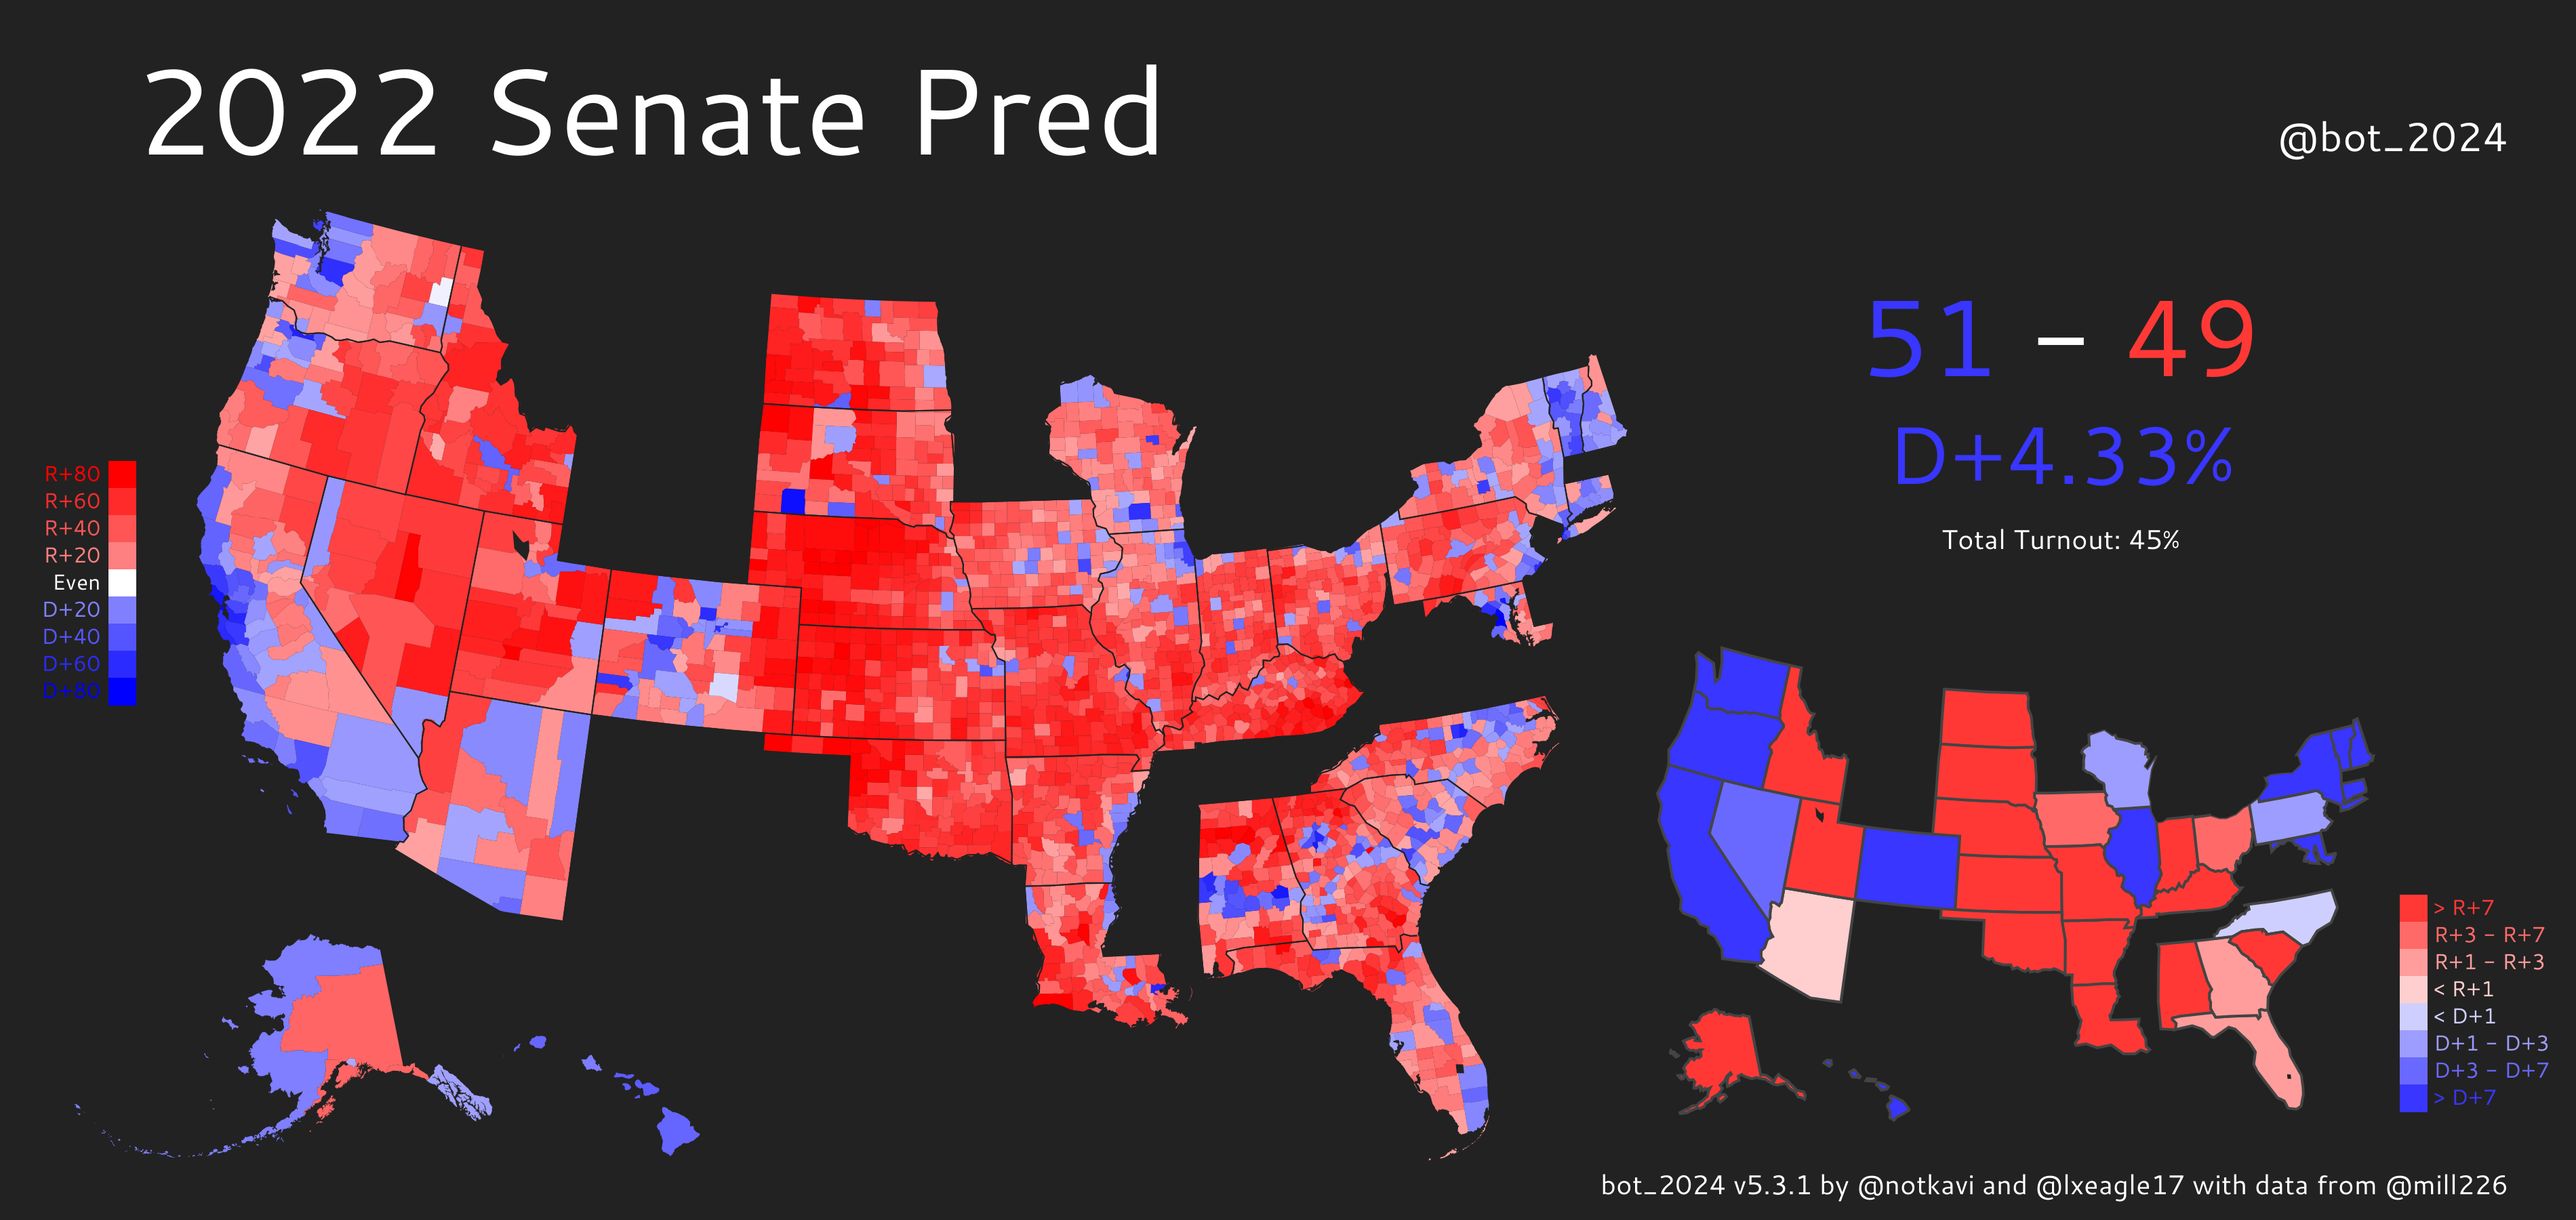
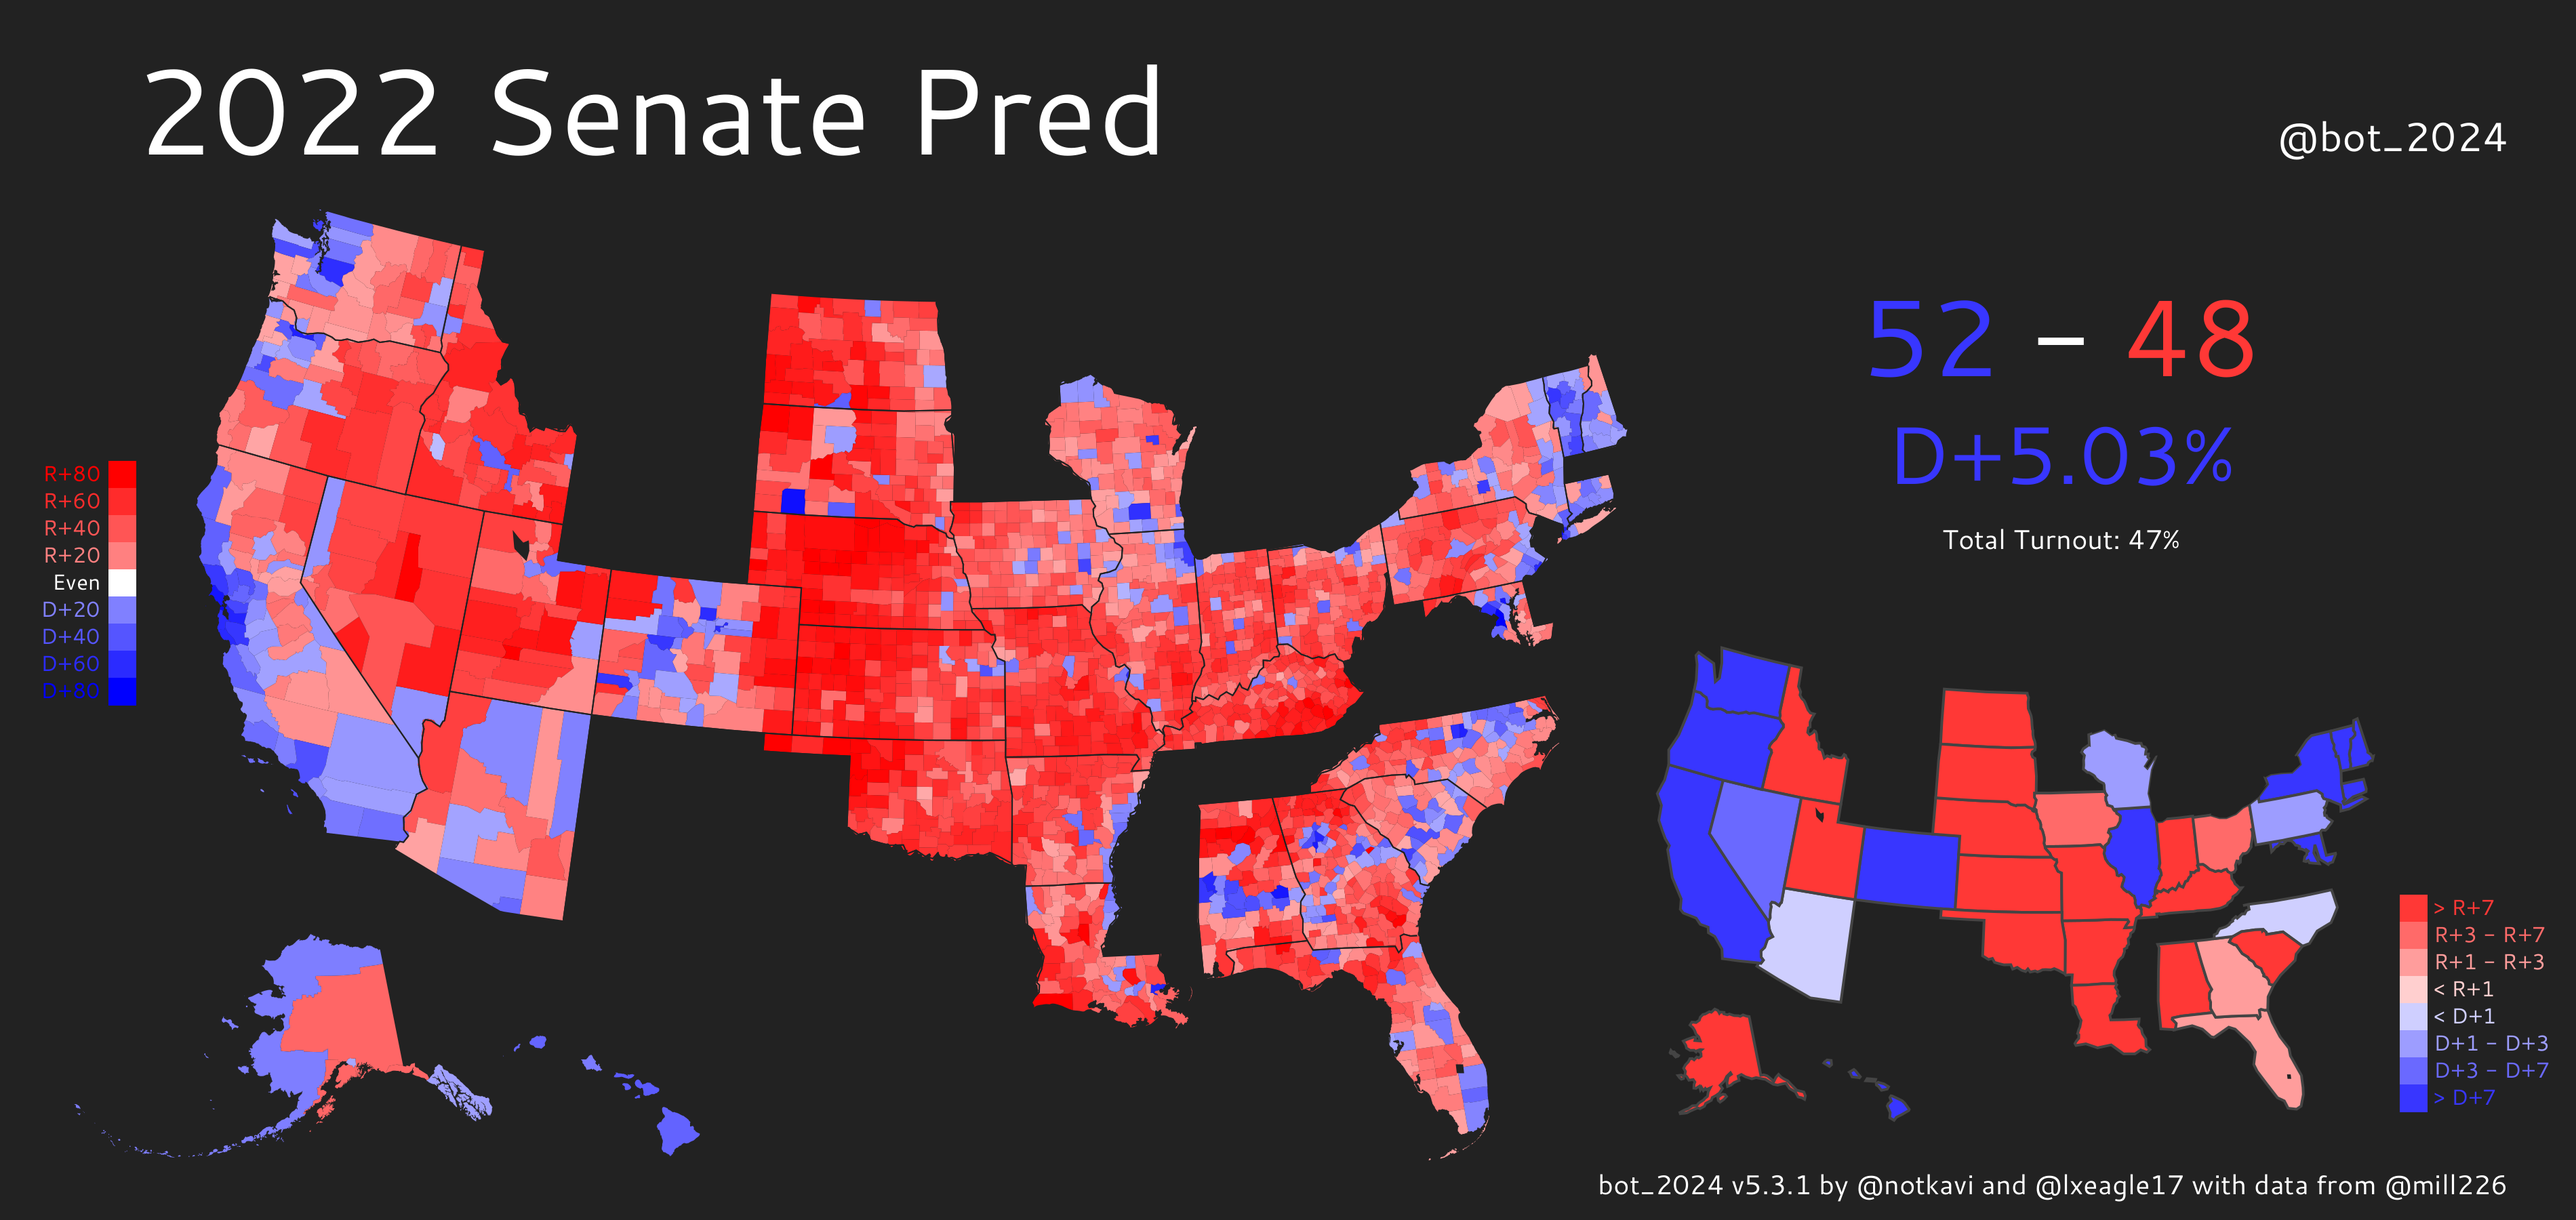
Publish 2022 model

diff --git a/mapmaker/torch_model.py b/mapmaker/torch_model.py
@@ -21,7 +21,7 @@ HIDDEN_SIZE = 100
 LEARNING_RATE = 1e-2
 
 YEAR_FORCE_ENVIRONMENT = {2022: 2e-2}
-
+EXCLUDE_TURNOUT_YEARS = [2014]
 
 class DemographicCategoryPredictor(nn.Module):
     # to refresh cache, increment this
@@ -261,7 +261,7 @@ class AdjustedDemographicCategoryModel:
         torch.manual_seed(rng.randint(2 ** 32))
         partisanship_noise = (self.sample_perturbations() * alpha_partisanship).float()
         turnout_noise = (self.sample_perturbations() * alpha_turnout).float()
-        same_cycle_years = [y for y in self.dcm.years if y % 4 == for_year % 4]
+        same_cycle_years = self.turnout_relevant_years(for_year)
         turnout_weights = torch.rand(len(same_cycle_years)).float()
         turnout_weights /= turnout_weights.sum()
         turnout_weights = {y: w for y, w in zip(same_cycle_years, turnout_weights)}
@@ -280,13 +280,17 @@ class AdjustedDemographicCategoryModel:
         deltas = torch.rand(self.dcm.d, 1) - 0.5
         return deltas
 
+    def turnout_relevant_years(self, output_year):
+        return [y for y in self.dcm.years if y % 4 == output_year % 4 and y not in EXCLUDE_TURNOUT_YEARS]
+
     def predict(
         self, *, data, model_year, output_year, features, correct, turnout_year
     ):
         turnout_weights = self.turnout_weights
         if turnout_weights is None and model_year != output_year:
-            same_cycle_years = [y for y in self.dcm.years if y % 4 == output_year % 4]
+            same_cycle_years = self.turnout_relevant_years(output_year)
             turnout_weights = {y: 1 / len(same_cycle_years) for y in same_cycle_years}
+        print(f"{turnout_weights=} {turnout_year=} {model_year=} {output_year=}")
         p, t = self.dcm.predict(
             model_year,
             features,
@@ -302,15 +306,15 @@ class AdjustedDemographicCategoryModel:
                 year=output_year,
                 base_year=model_year,
             )
+            t = t + self.residuals[model_year][1]
             if correct == "just_residuals":
                 p = pr
             else:
                 p = p + pr
+                if output_year in YEAR_FORCE_ENVIRONMENT:
+                    empirical = get_popular_vote(data, dem_margin=p, turnout=t)
+                    p = p - empirical + YEAR_FORCE_ENVIRONMENT[output_year]
 
-            t = t + self.residuals[model_year][1]
-            if output_year in YEAR_FORCE_ENVIRONMENT:
-                empirical = get_popular_vote(data, dem_margin=p, turnout=t)
-                p = p - empirical + YEAR_FORCE_ENVIRONMENT[output_year]
 
         return np.clip(p, -0.99, 0.99), np.clip(t, 0.01, 0.99)
 
